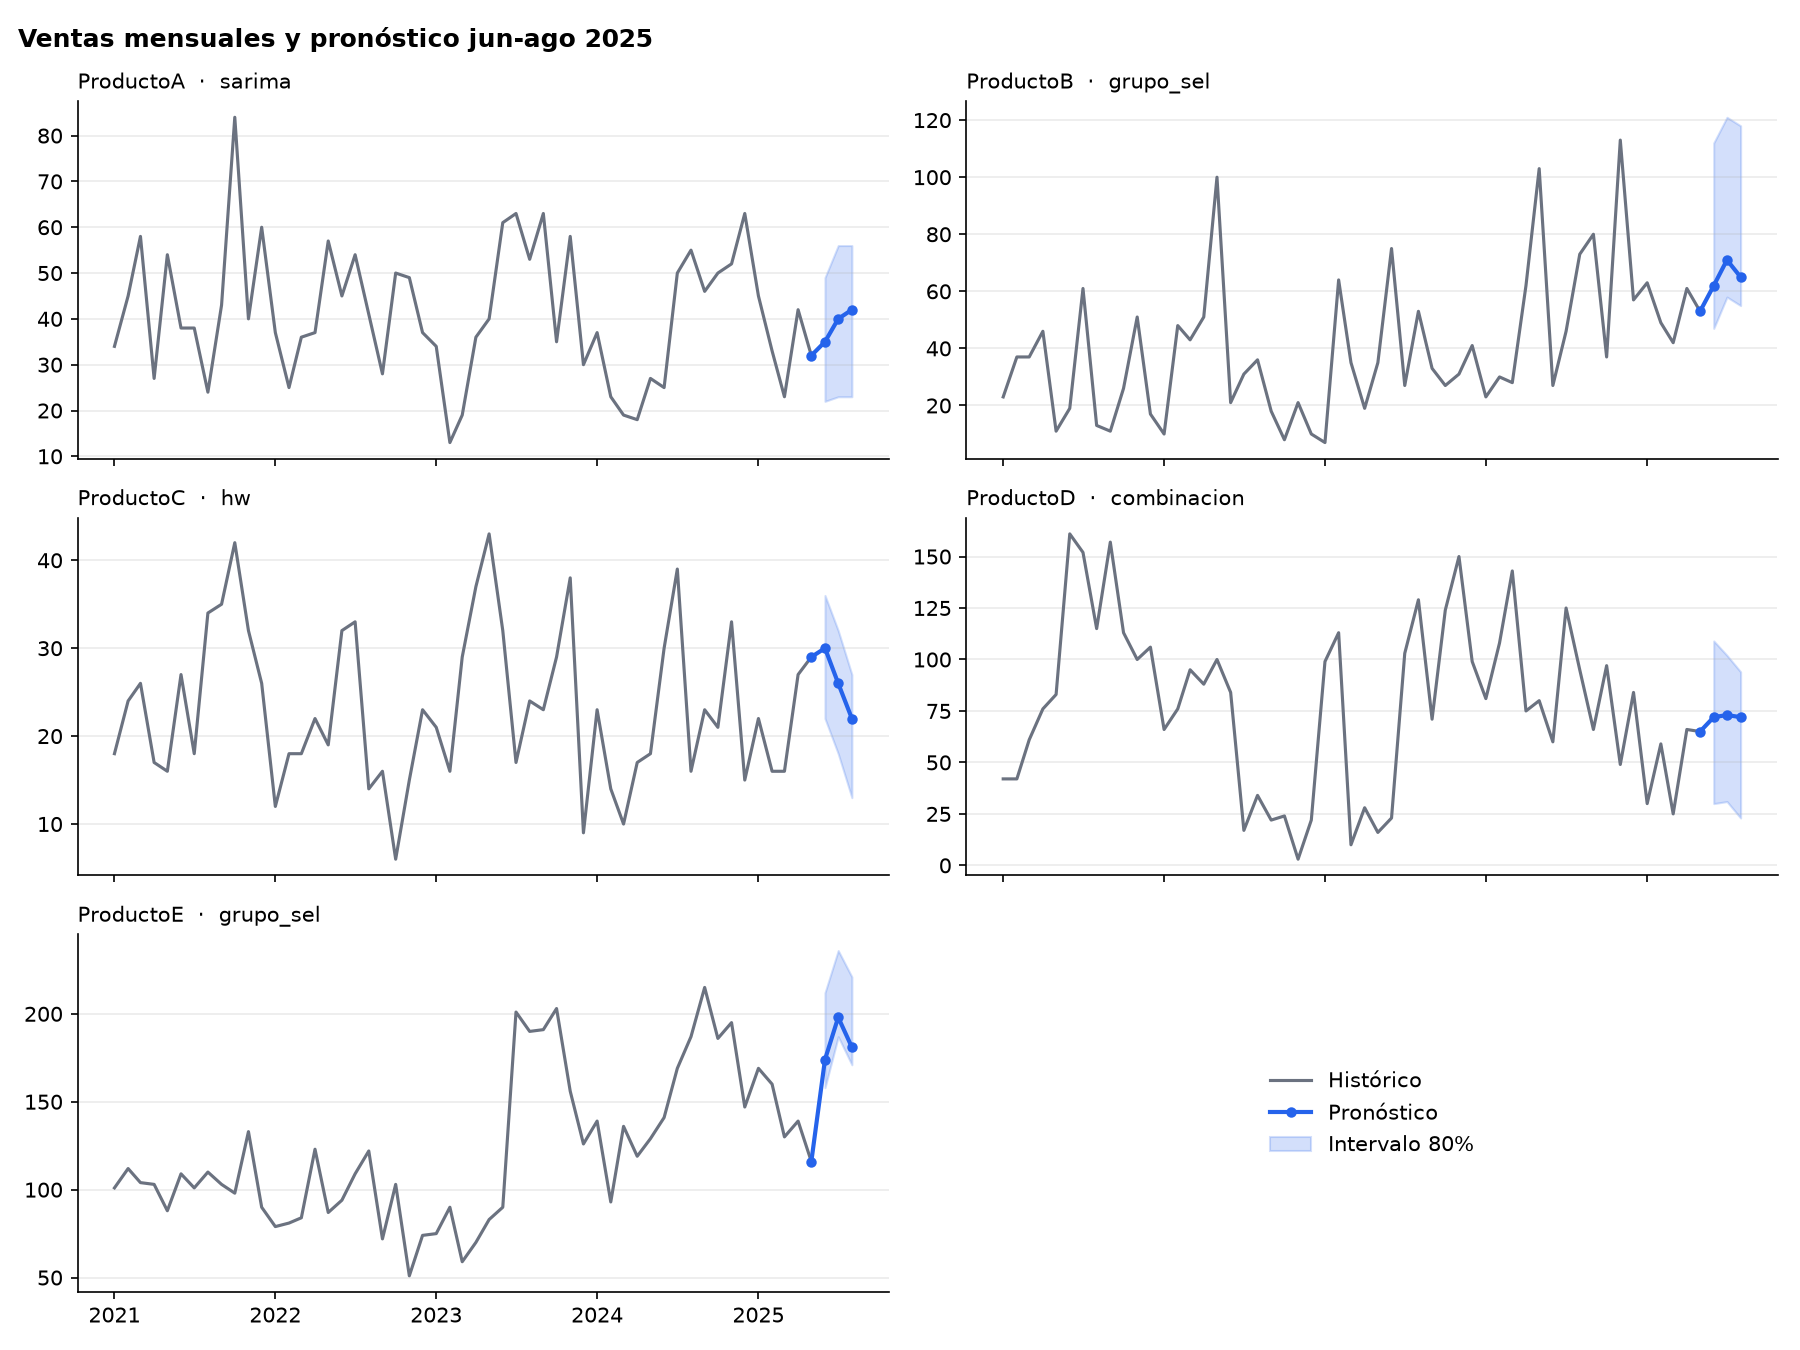
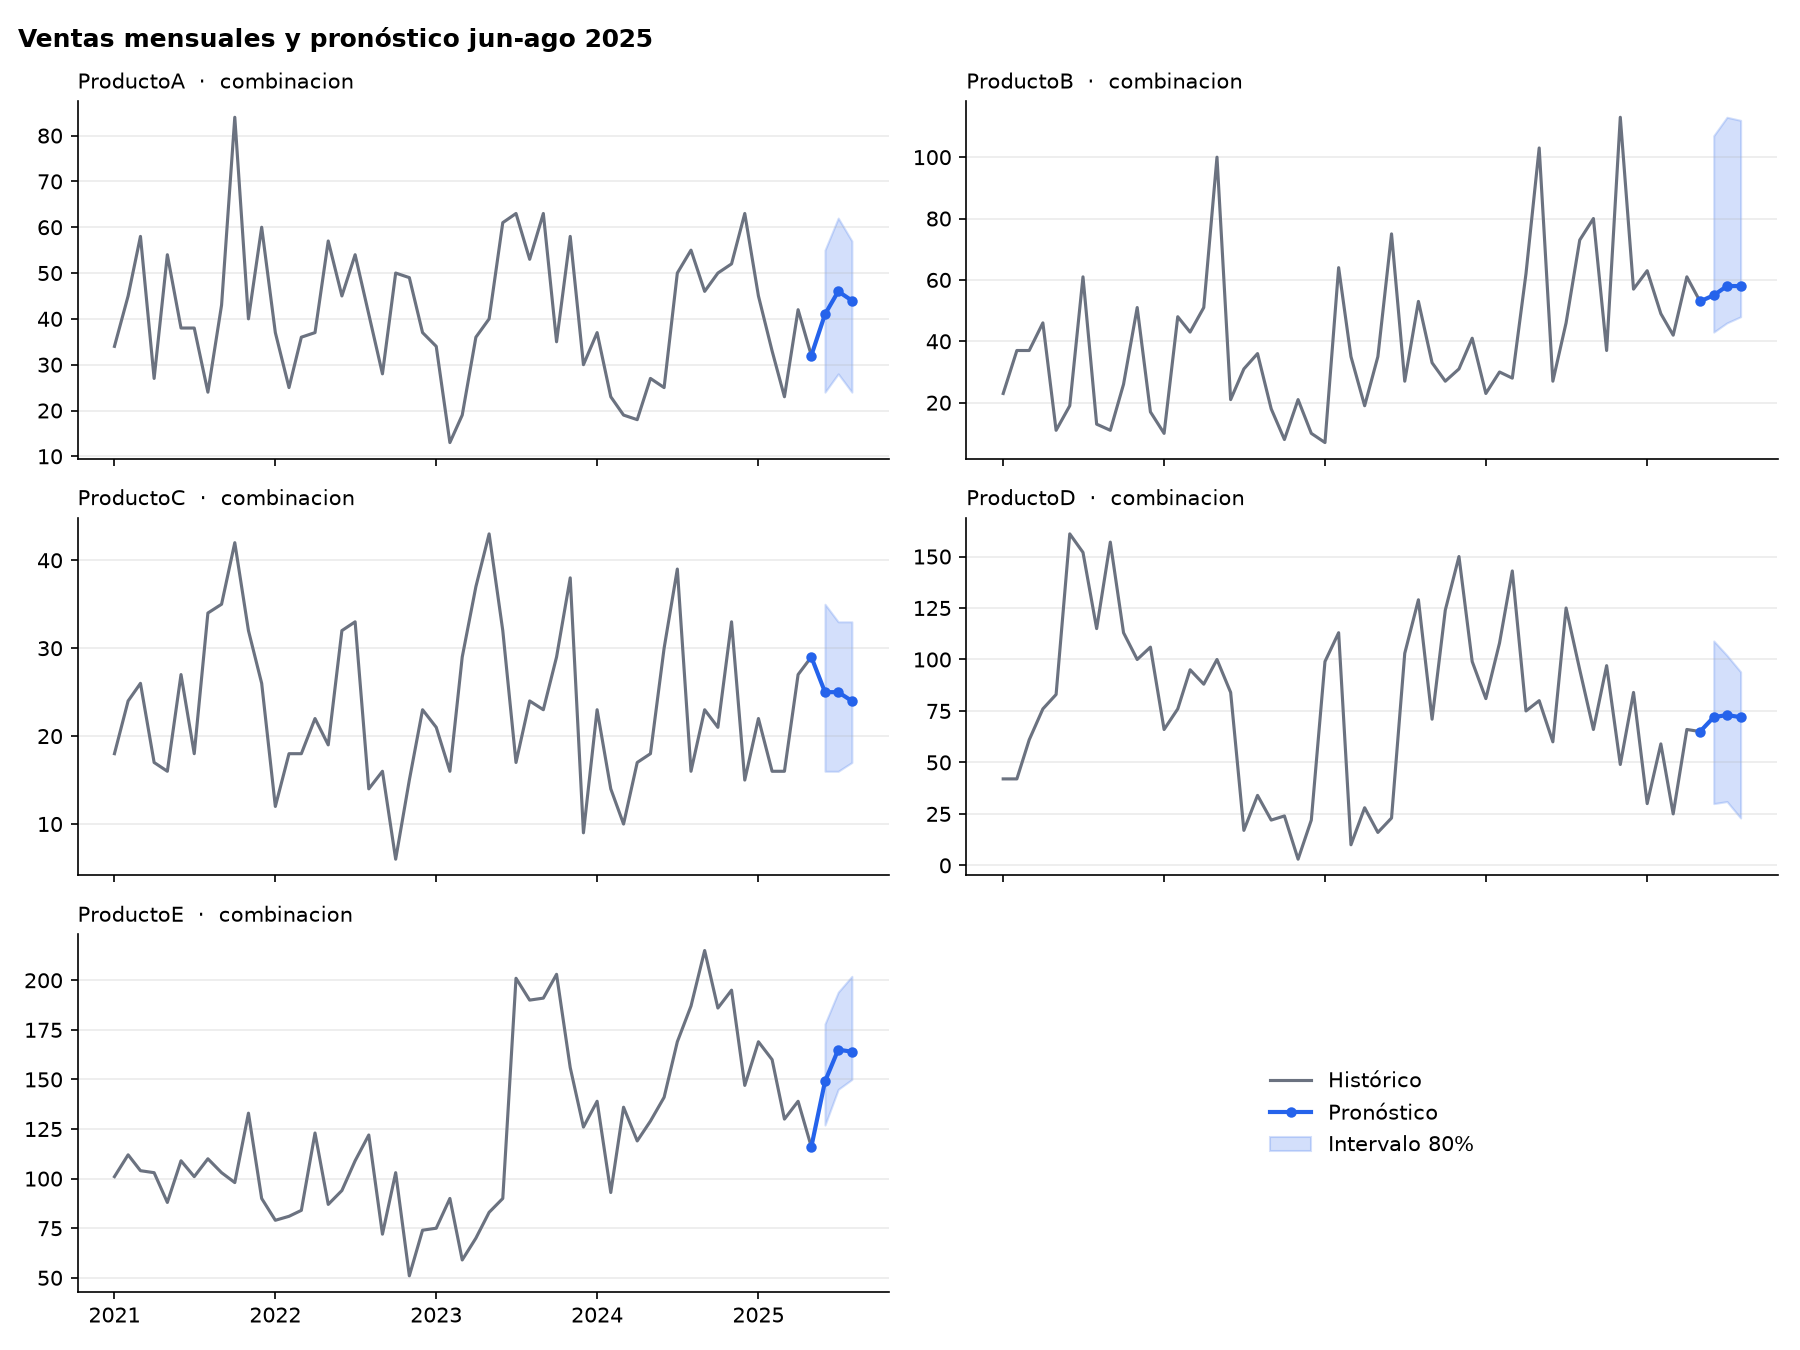
agregue tracking signal para observar la relacion sesgo-varianz

diff --git a/main.py b/main.py
@@ -15,7 +15,6 @@ MIN_TRAIN =36 # mínimo de meses de historia (3 años completos) antes de inicia
 AQUI = os.path.dirname(os.path.abspath(__file__))
 # -> Las rutas se resuelven respecto del archivo y no del directorio desde el que se ejecuta.
 
-
 # LOG: todo lo que se imprime va a la consola Y a un .txt, uno por corrida, para poder comparar corridas después.
 class Tee:
     def __init__(self, *destinos):
@@ -51,11 +50,12 @@ MESES = pd.date_range(piv.index[-1], periods=H + 1, freq='MS')[1:].strftime('%Y-
 
 
 # ESTACIONALIDAD COMPARTIDA:
-# Cada serie / su media, promediado por mes calendario
+# Cada serie / su media, promediado por mes calendariow
+# vuelve 12 números, uno por mes calendario, que dicen cuánto 
+# se vende ese mes comparado con un mes promedio, juntando todos los SKU
 def perfil_de(hist, grupo=None):
     # -> El perfil se estima a partir de los datos, así que dentro del backtest tiene 
     #    que construirse SOLO con la historia disponible hasta cada corte. 
-    #   Calcularlo una vez con los 53 meses sería fuga de información: el perfil de 2021 "sabría" cómo fue 2025.
     hist = hist if grupo is None else hist[grupo]
     norm = hist / hist.mean()
     # -> un índice relativo. 1.0 es un mes promedio para ese SKU y 1.3 es un 30 % por encima de su media
@@ -125,10 +125,12 @@ def metodos(y, mes, perfil, perfil_sel):
     aux = {"hw": hw, "sarima": sarima, "grupo": grupo, "grupo_sel": grupo_sel,
            "media_3": media_3, "media_12": media_12, "s_naive": s_naive, "combinacion": combinacion}
 
+    # No se pueden vender −3 unidades, y algunos métodos pueden dar negativos:
     return {k: np.clip(v, 0, None) for k, v in aux.items()}
+    # - > np.clip([42.1, 38.5, -3.2], 0, None)  →  [42.1, 38.5, 0.0]
 
-
-# BACKTEST: simulación del paso del tiempo.
+# BACKTEST: simulación del paso del tiempo
+# ->  el mismo mes se pronostica varias veces, cada vez con más información.
 filas = []
 for corte in range(MIN_TRAIN, len(piv) - H + 1):
     # -> Recorre los puntos de corte posibles: cada corte usa los primeros `corte` meses como entrenamiento y los H meses siguientes como prueba.
@@ -136,6 +138,8 @@ for corte in range(MIN_TRAIN, len(piv) - H + 1):
     # -> El perfil y la elección del grupo se arman una sola vez por corte, con los datos de ese corte y de ningún mes posterior.
     perfil, grupo_sel = perfil_de(hist), elegir_grupo(hist)
     perfil_s = perfil_de(hist, grupo_sel)
+    #   Es el mismo perfil de 12 números, pero armado solo con los SKU del grupo elegido. Así se pueden comparar los dos métodos: 
+    #   grupo usa el perfil de todos los SKU y grupo_sel usa el perfil de los SKU parecidos.
     mes = piv.index[corte - 1].month
     for sku in piv:
         v = piv[sku].values
@@ -148,17 +152,16 @@ for corte in range(MIN_TRAIN, len(piv) - H + 1):
                 # -> err = real - pronóstico (CON SIGNO): el signo sirve para medir sesgo, el valor absoluto para medir magnitud.
                 filas.append({"SKU": sku, "corte": corte, "metodo": met, "paso": paso + 1,
                               "err": real[paso] - fc[paso], "escala": escala})
-
 # -> Convierte la lista de filas en un DataFrame para poder agrupar y comparar los métodos. Se conserva `corte` para poder mirar la dispersión entre ventanas.
 r = pd.DataFrame(filas, columns=['SKU', 'corte', 'metodo', 'paso', 'err', 'escala'])
 r['abs'] = r.err.abs()
 r['mase'] = r['abs'] / r.escala
-
 cortes = r.corte.nunique()
 print(f'Backtest: {cortes} orígenes x {H} pasos x {piv.shape[1]} SKU = {cortes*H*piv.shape[1]} pronósticos por método')
 print(linea())
 
-# -> Cada celda resume el MASE promedio de un método para un SKU a lo largo de todos los cortes y pasos.
+# Para cada celda (método, SKU) promedia los 45 MASE de las 15 ventanas × 3 pasos 
+# -> Un solo método para los 3 meses.
 mase = r.pivot_table(index='metodo', columns='SKU', values='mase')
 print('=== MASE por método (menor es mejor; 1.0 = naive estacional) ===')
 print(mase.assign(PROMEDIO=mase.mean(axis=1)).sort_values('PROMEDIO').round(3), '\n')
@@ -175,19 +178,18 @@ print(r.groupby('SKU').escala.mean().round(1).to_string(), '\n')
 print('=== MASE por horizonte (promedio de los 5 SKU) ===')
 print(r.pivot_table(index='metodo', columns='paso', values='mase').round(3), '\n')
 
-# -> Por qué 15 orígenes y no 1: el error de una sola ventana es casi ruido.
+# Por qué 15 orígenes y no 1: el error de una sola ventana es casi ruido.
+# -> Con una sola ventana la medición podía caer en cualquier punto de este rango
 mejor_global = mase.mean(axis=1).idxmin()
 disp = r[r.metodo == mejor_global].groupby('corte')['abs'].mean()
 print(f'=== Dispersión entre ventanas ({mejor_global}, error absoluto medio por origen) ===')
 print(f'min {disp.min():.1f} | max {disp.max():.1f} | promedio {disp.mean():.1f} | desvío {disp.std():.1f}')
-print('Con una sola ventana la medición podía caer en cualquier punto de ese rango.\n')
 
 # -> Error CON SIGNO: mide sesgo. Dos modelos pueden tener el mismo MAE y uno quedarse corto siempre.
 #    En inventario eso no se compensa: se acumula y se come el stock de seguridad.
 print('=== Sesgo: error medio con signo (positivo = el modelo pronostica de menos) ===')
 print(r.pivot_table(index='metodo', columns='SKU', values='err').round(1), '\n')
 
-# -> Tracking signal: suma de los errores con signo de los últimos K orígenes, dividida por el MAD 
 
 # AGRUPAMIENTO: con quién conviene compartir estacionalidad
 norm_full = piv / piv.mean()
@@ -197,24 +199,7 @@ print(corr.round(2).to_string())
 print('\ncorrelación media de cada SKU con el resto:')
 print(((corr.sum() - 1) / (len(corr) - 1)).sort_values(ascending=False).round(2).to_string())
 print(f'\ngrupo elegido en el último corte: {elegir_grupo(piv)}')
-print('Efecto del agrupamiento, aislado en la tabla de MASE:')
-print('  media_12 -> grupo      = efecto de APLICAR un perfil estacional (mismo nivel, con y sin perfil)')
-print('  grupo    -> grupo_sel  = efecto de ELEGIR con quién agruparse')
 print(linea())
-
-# COBERTURA DEL INTERVALO
-# -> Un p10-p90 bien calibrado tiene que contener al real el 80 % de las veces. Medirlo con los mismos
-#    errores que construyeron el intervalo sería circular, así que se calibra con los primeros cortes
-#    y se mide en los últimos.
-corte_split = sorted(r.corte.unique())[int(cortes * 0.67)]
-cubiertos = []
-for (sku, paso), g in r[r.metodo == mejor_global].groupby(['SKU', 'paso']):
-    cal, test = g[g.corte < corte_split].err, g[g.corte >= corte_split].err
-    lo, hi = np.percentile(cal, 10), np.percentile(cal, 90)
-    cubiertos += [(lo <= e <= hi) for e in test]
-print(f'=== Cobertura del intervalo 80 % ({mejor_global}) ===')
-print(f'calibrado con los cortes < {corte_split}, medido en los posteriores: '
-      f'{100*np.mean(cubiertos):.0f} % de cobertura observada sobre {len(cubiertos)} casos (objetivo 80 %)\n')
 
 # ERROR ACUMULADO SOBRE EL HORIZONTE
 # -> Para dimensionar stock no importa el error de un mes sino el del acumulado de los H meses que
@@ -228,6 +213,20 @@ print(f'=== Error del acumulado de {H} meses ({mejor_global}) ===')
 print(comp.to_string())
 print(f'Si los errores fueran independientes el ratio sería raíz({H}) = {np.sqrt(H):.2f}; '
       f'si fueran idénticos sería {H}.\n')
+
+# -> Tracking signal: suma de los errores con signo de los últimos K orígenes, dividida por el MAD 
+#    (Desviación Absoluta Media de esos mismos orígenes).
+#    Se usa SOLO el paso 1, porque es el único horizonte con un pronóstico por mes: si se mezclaran
+#    los tres pasos, cada mes entraría tres veces y la suma se inflaría sin que haya más evidencia.
+#    Se divide por el MAD para que el umbral valga igual en un SKU de 40 unidades/mes y en uno de 180.
+K = 6
+h1 = r[(r.metodo == mejor_global) & (r.paso == 1)].sort_values('corte')
+ts = h1.groupby('SKU').apply(lambda g: g.err.tail(K).sum() / g['abs'].tail(K).mean()).round(2)
+print(f'=== Tracking signal ({mejor_global}, paso 1, últimos {K} orígenes) ===')
+print(ts.to_string())
+alarma = ts[ts.abs() > 4].index.tolist()
+print('Umbral |TS| > 4:', ('ALARMA en ' + ', '.join(alarma)) if alarma else 'ningún SKU lo supera.')
+print()
 
 # PRONOSTICOS FINALES
 perfil_f, grupo_f = perfil_de(piv), elegir_grupo(piv)

diff --git a/graficos.py b/graficos.py
@@ -46,6 +46,11 @@ def grafico_mase(mase, archivo='grafico_mase.png'):
     ax.set_title('MASE del backtest (menor es mejor, 1.0 = naive estacional)', loc='left', fontsize=10)
     fig.tight_layout()
     fig.savefig(archivo, dpi=150)
+# El MASE de s_naive responde: ¿el naive se equivocó más en el período del backtest que en su historia?
+#- 1.0: igual que siempre.
+#- > 1: más que de costumbre; el período reciente fue más difícil.
+#- < 1: menos que de costumbre.
+
 
 # Animación del backtest: cada cuadro es un corte. La línea gris oscura es lo que el modelo "conoce" hasta ese corte,
 # la gris clara es el futuro que todavía no vio. La línea azul es lo que pronosticó para los H meses siguientes y los
@@ -53,6 +58,8 @@ def grafico_mase(mase, archivo='grafico_mase.png'):
 # anteriores quedan marcados en azul tenue, así se ve cómo se va armando el backtest.
 def grafico_animacion_backtest(piv, r, mase, archivo='animacion_backtest.gif', intervalo=2000):
     """Anima el backtest corte por corte con el método ganador de cada SKU. Devuelve la animación."""
+    #mejor_global = mase.mean(axis=1).idxmin()
+    #mejor = pd.Series(mejor_global, index=mase.columns)
     mejor = mase.idxmin(axis=0)          # método con menor MASE para cada SKU
     cortes = sorted(r.corte.unique())
     H = int(r.paso.max())
